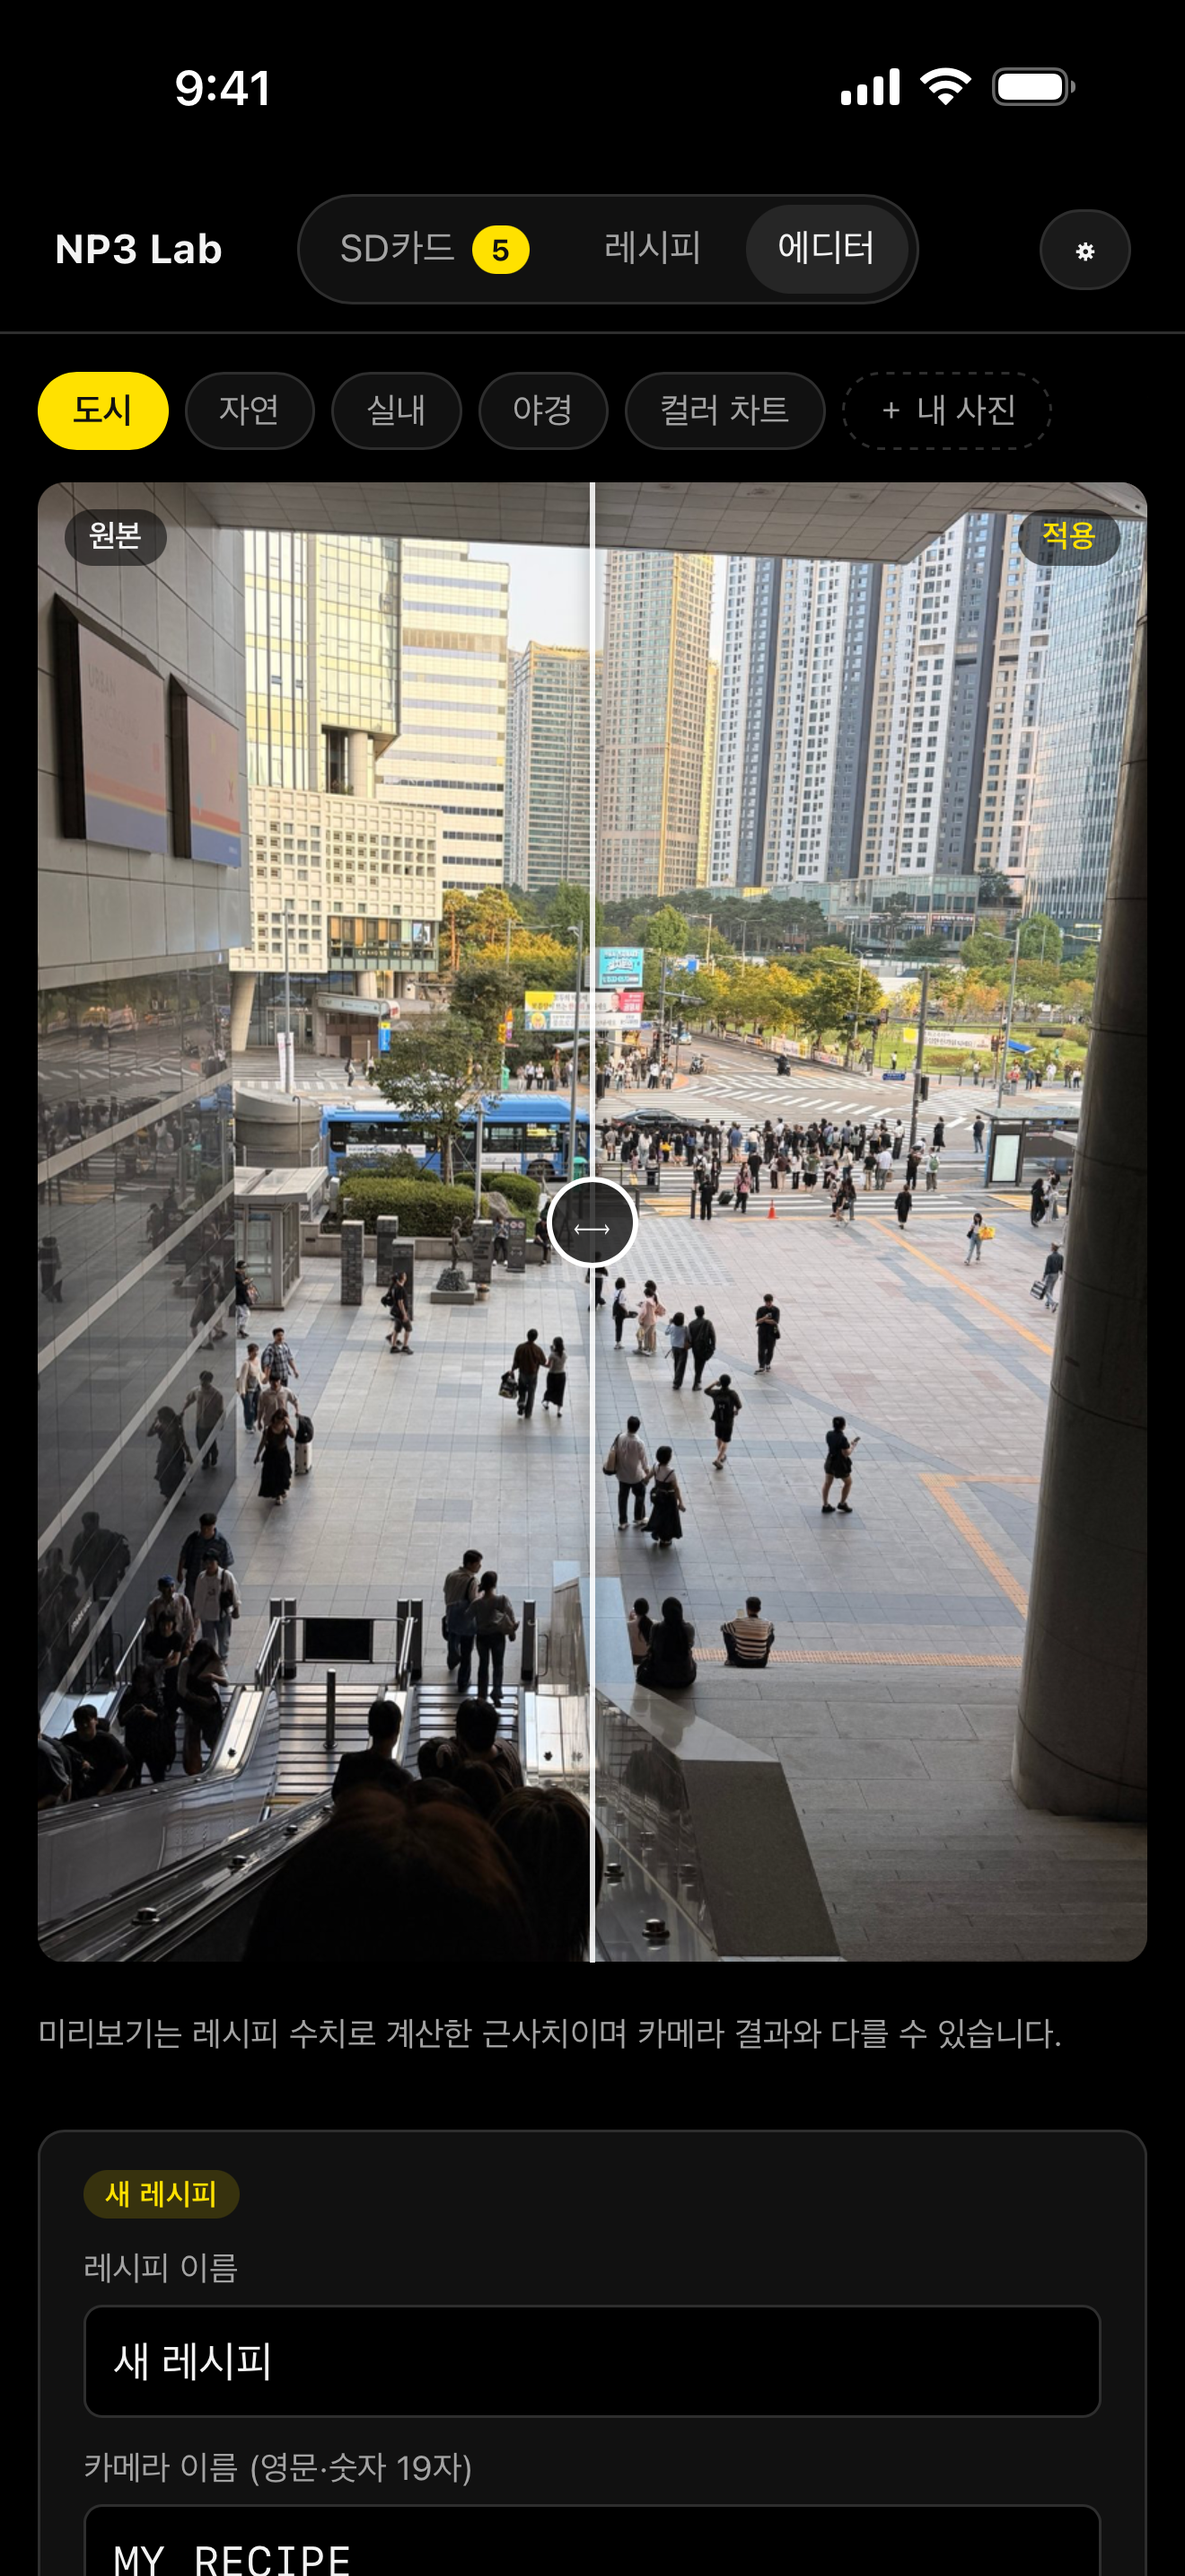
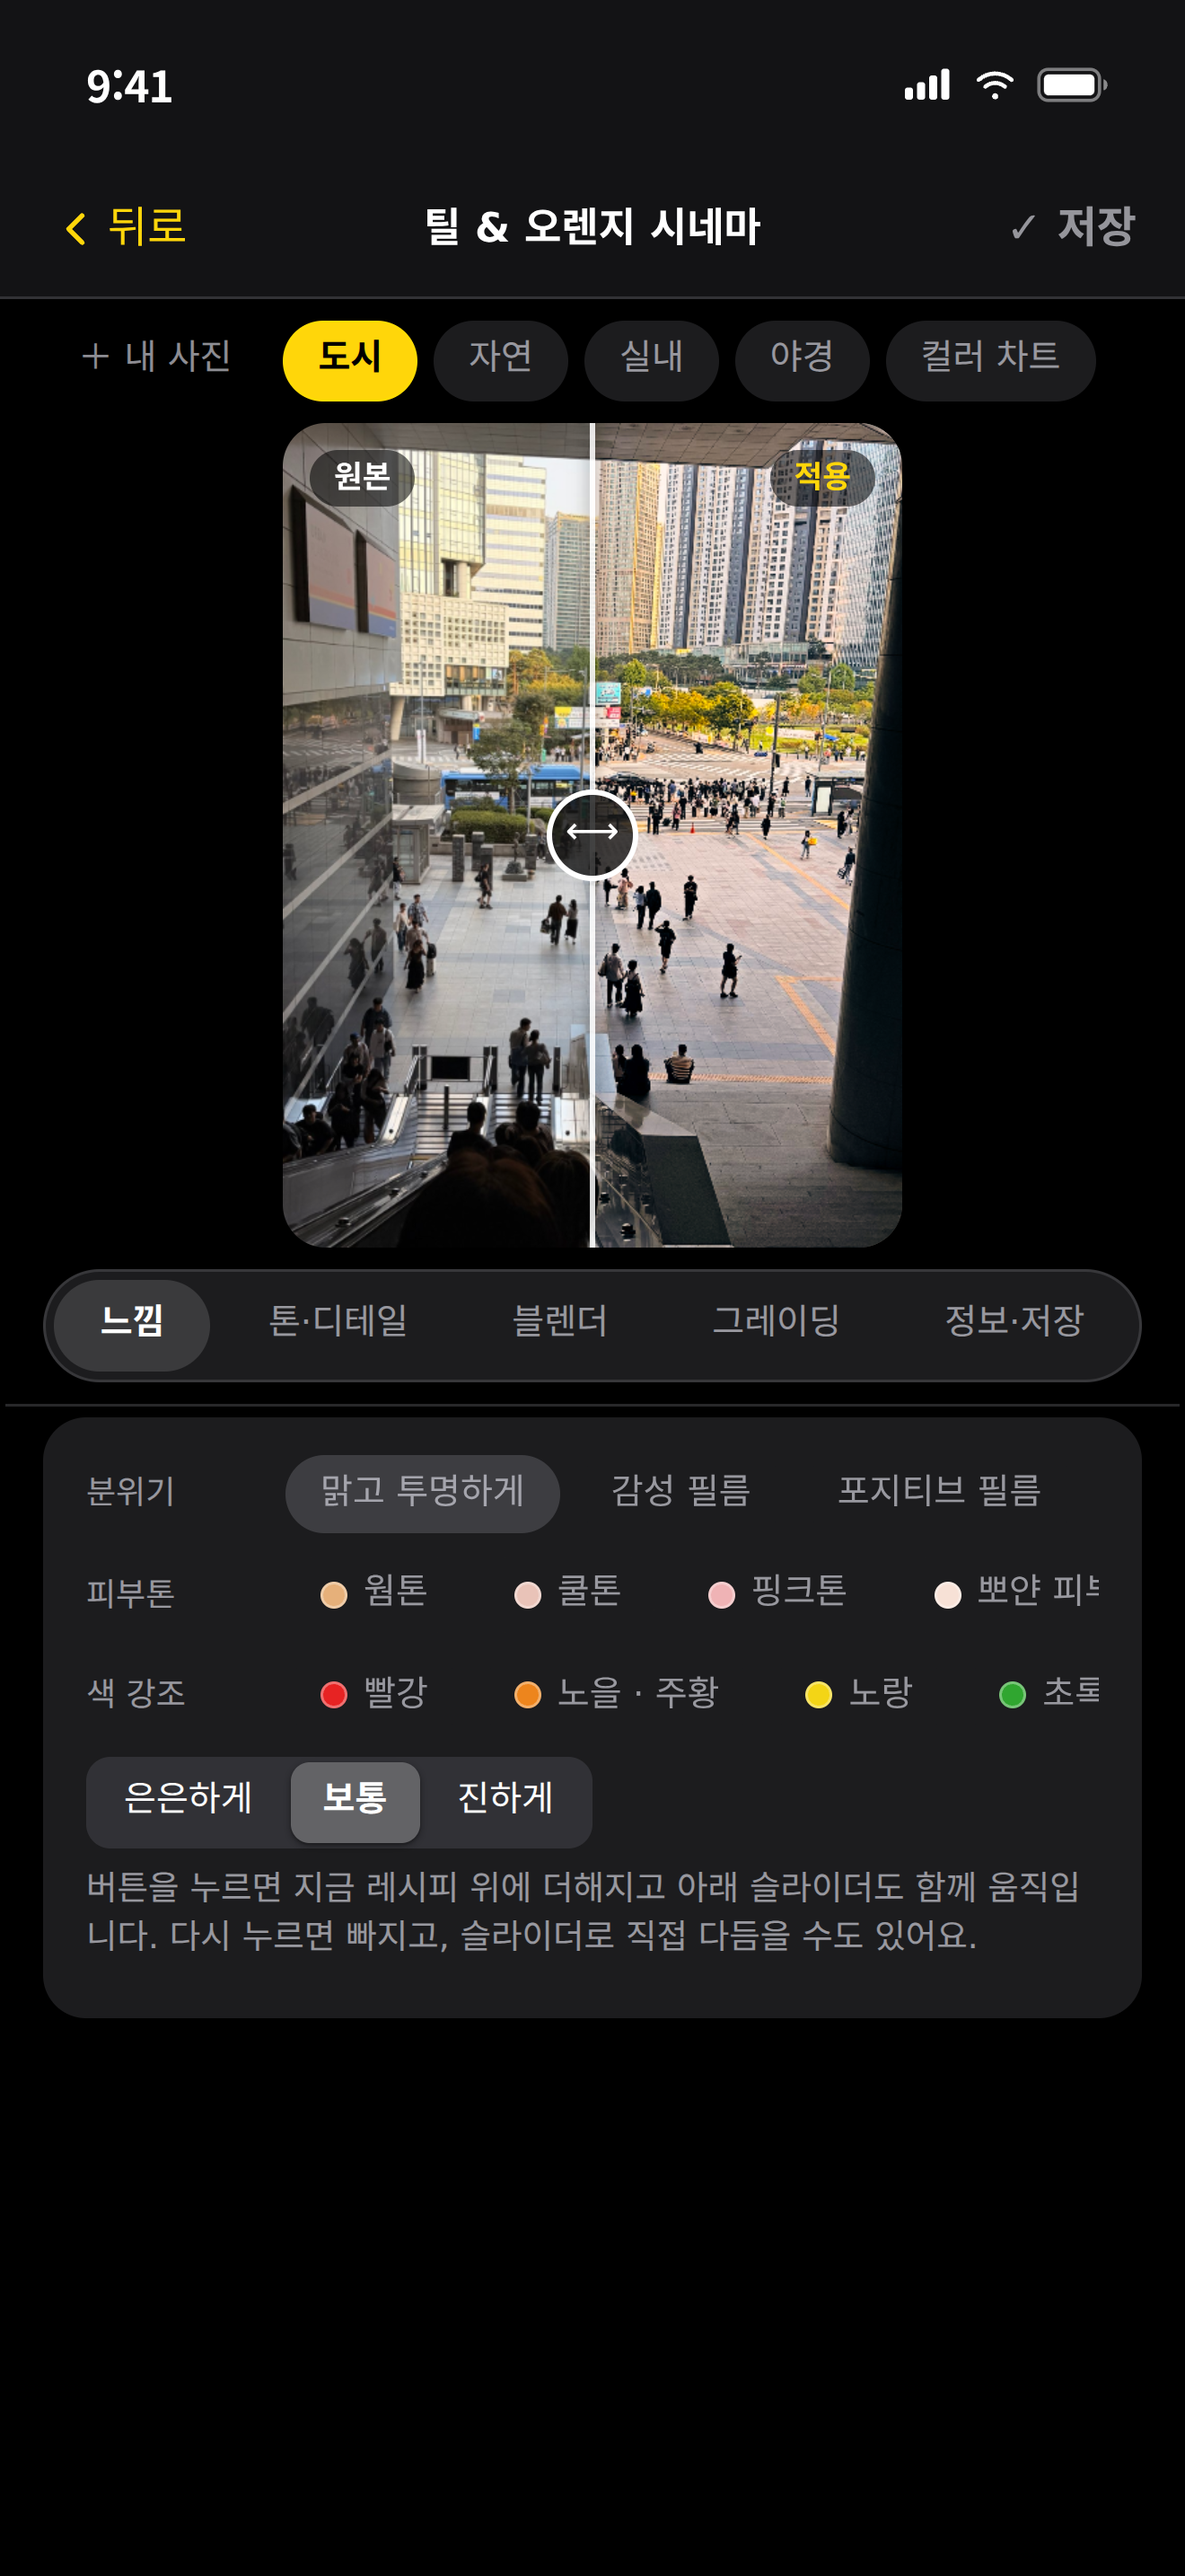
chore(screenshots): regenerate iPhone 6.9 App Store screenshots and polish SD strip and iOS slider width

diff --git a/src/ui/HomeView.tsx b/src/ui/HomeView.tsx
@@ -22,12 +22,12 @@ export function HomeView() {
   const card = activeCard.value;
   const [guideOpen, setGuideOpen] = useState(false);
 
-  // Lead with the user's own recipes, then fill up to 8 slots with built-ins.
+  // Lead with the user's own recipes, then fill up to 6 slots with built-ins.
   const featured = useMemo(() => {
-    const mine = myRecipes.value.slice(0, 8);
-    if (mine.length >= 8) return mine;
+    const mine = myRecipes.value.slice(0, 6);
+    if (mine.length >= 6) return mine;
     const seen = new Set(mine.map((r) => r.id));
-    const rest = allRecipes.value.filter((r) => !seen.has(r.id)).slice(0, 8 - mine.length);
+    const rest = allRecipes.value.filter((r) => !seen.has(r.id)).slice(0, 6 - mine.length);
     return [...mine, ...rest];
   }, [myRecipes.value, allRecipes.value]);
 
@@ -44,8 +44,8 @@ export function HomeView() {
                 <IconCard size={20} />
               </div>
               <div class="sd-strip-text">
-                <strong>{t(isAndroid ? "noCardTitleAndroid" : "noCardTitle")}</strong>
-                <span>{t("homeGuideStep2Idle")}</span>
+                <strong>{t("homeCardStripTitle")}</strong>
+                <span>{t("homeCardStripSub")}</span>
               </div>
               {isAndroid && (
                 <button

diff --git a/src/i18n.ts b/src/i18n.ts
@@ -489,6 +489,8 @@ const ko = {
   onboardStartCard: "SD 카드 연결하기",
   onboardStartBrowse: "레시피 먼저 둘러보기",
   onboardStartHome: "홈으로 시작하기",
+  homeCardStripTitle: "SD 카드를 연결하세요",
+  homeCardStripSub: "리더기를 꽂고 카드를 선택하세요",
 };
 
 type Dict = Record<keyof typeof ko, string>;
@@ -971,6 +973,8 @@ const en: Dict = {
   onboardStartCard: "Connect SD Card",
   onboardStartBrowse: "Browse Recipes First",
   onboardStartHome: "Go to Home",
+  homeCardStripTitle: "Connect your SD card",
+  homeCardStripSub: "Plug in a reader and choose your card",
 };
 
 export type MessageKey = keyof typeof ko;
@@ -1457,6 +1461,8 @@ const ja: Dict = {
   onboardStartCard: "SDカードを接続",
   onboardStartBrowse: "レシピを先に見る",
   onboardStartHome: "ホームへ進む",
+  homeCardStripTitle: "SDカードを接続",
+  homeCardStripSub: "リーダーをつないでカードを選択",
 };
 
 const DICTS: Record<Lang, Dict> = { ko, en, ja };

diff --git a/src/styles.css b/src/styles.css
@@ -1120,7 +1120,7 @@ button.on:hover:not(:disabled) {
 }
 .slider {
   display: grid;
-  grid-template-columns: 118px 1fr 64px;
+  grid-template-columns: 118px 1fr 76px;
   align-items: center;
   gap: 10px;
   padding: 3px 0;
